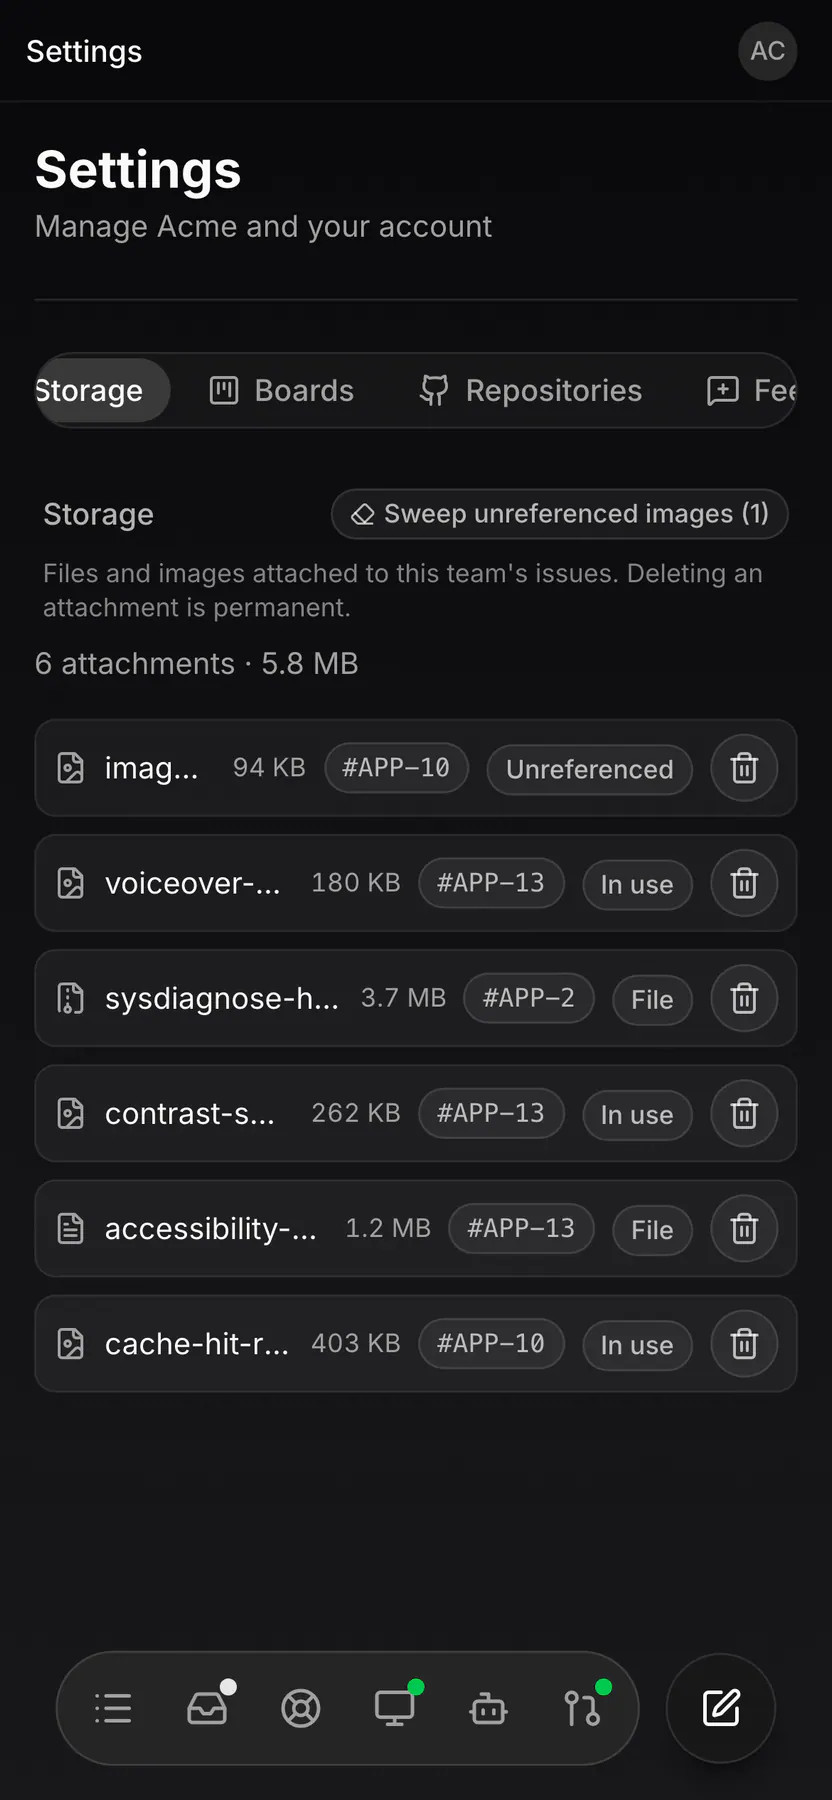
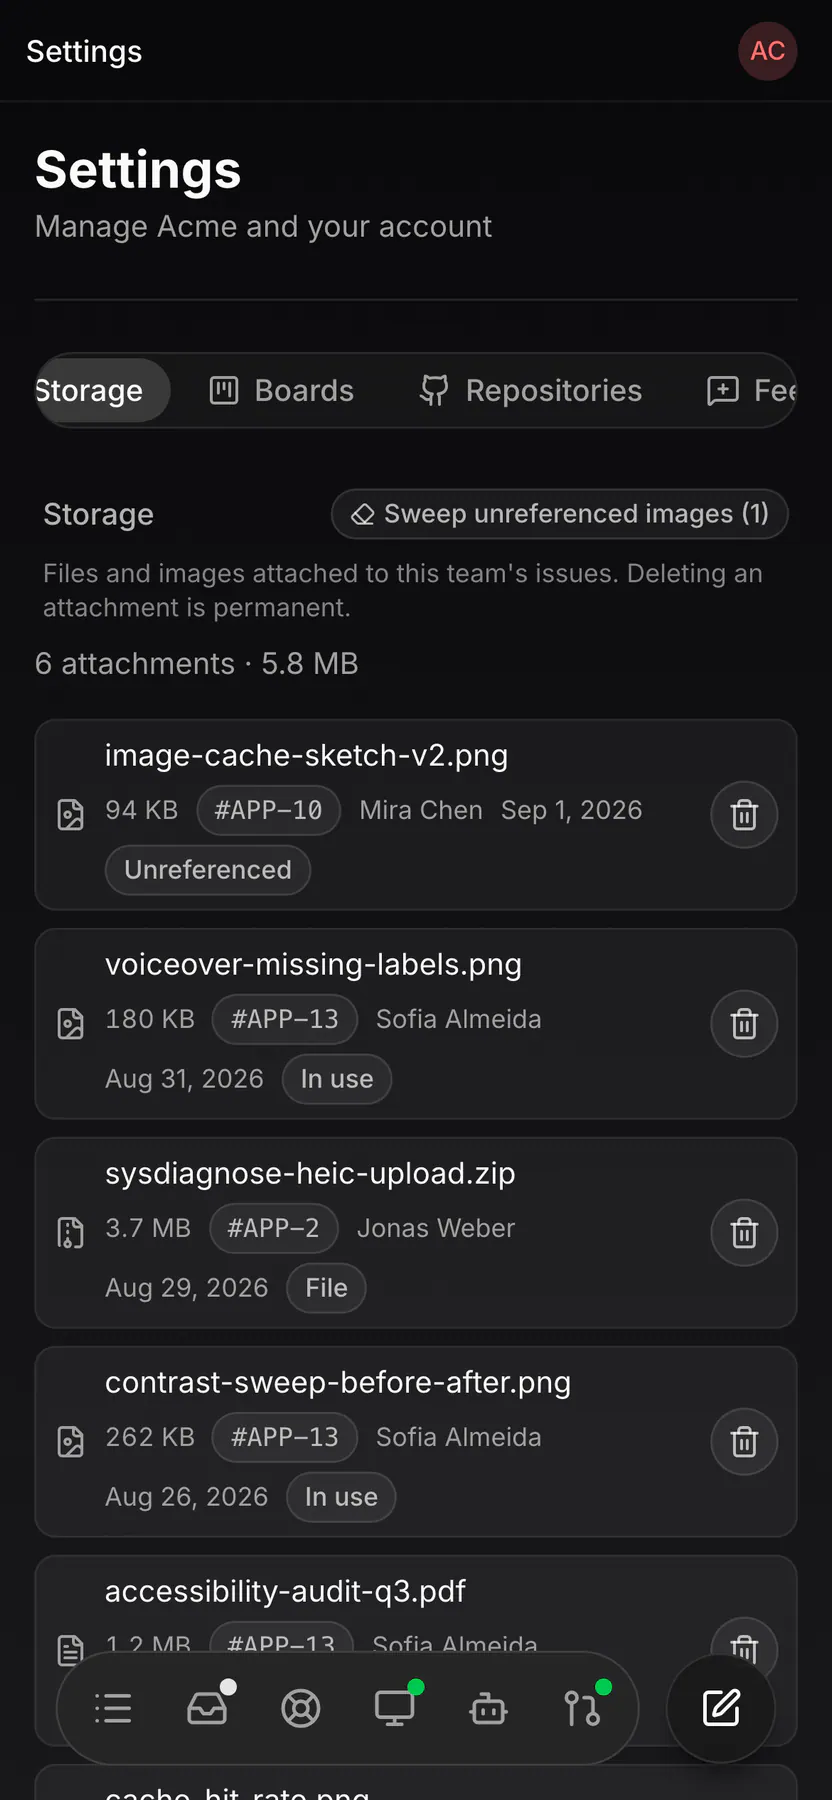
EXP-718: Settings tables: storage columns and widget-editor preview clipping
Storage (web): every cell but the filename is a definite width from a
container-query ladder on the list (size/issue/author/date/status, author
and date joining as the list widens), so the columns stop zig-zagging and
the ladder no longer overflows the ~450px settings column at the md
viewport. Narrow lists stack the cells under a full-width filename instead
of truncating it to 'imag…' beside three full-width chips.

Widget editor: from sm up the Appearance tab hands the knobs column and the
preview column their own scroll boxes, so the whole-panel preview is no
longer cut mid-field behind the dialog footer.

Refreshes settings-storage/{web,web-mobile} and settings-widget-editor/web.

diff --git a/apps/web/src/components/team/storage-section.tsx b/apps/web/src/components/team/storage-section.tsx
@@ -205,9 +205,19 @@ export function TeamStorageSection({
         ) : rows.length === 0 ? (
           <p className="text-sm text-muted-foreground">No attachments yet.</p>
         ) : (
-          // IDE-parity flex rows (EXP-316) — the old fixed table overflowed
-          // the settings column and clipped the status + delete controls.
-          <ul className="flex flex-col gap-2">
+          // IDE-parity rows (EXP-316) — the old fixed table overflowed the
+          // settings column and clipped the status + delete controls.
+          // EXP-718: in a wide enough list every cell but the filename is a
+          // definite width (the desktop's STORAGE_COL_* ladder), so size/
+          // issue/author/date/status stack in straight columns instead of
+          // zig-zagging around each row's own content; author and date join
+          // as the list widens. In a narrow one the same cells STACK under a
+          // full-width filename, so a phone never truncates the name to
+          // "imag…" while three trailing chips keep their full width. The
+          // thresholds are CONTAINER queries on the list: the settings column
+          // is ~450px at the `md` viewport (sidebar), so viewport breakpoints
+          // overflowed the ladder exactly where the tab strip turns into it.
+          <ul className="@container flex flex-col gap-2">
             {rows.map((row) => {
               const Icon = getAttachmentIcon(row.contentType)
               const issue = issuesById.get(row.issueId)
@@ -226,56 +236,66 @@ export function TeamStorageSection({
                 >
                   <li>
                     <Icon className="size-4 shrink-0 text-muted-foreground" />
-                    {row.isImage ? (
-                      <button
-                        type="button"
-                        className="min-w-0 flex-1 cursor-pointer truncate text-left text-sm hover:underline"
-                        title={`Preview ${row.filename}`}
-                        onClick={() => setPreviewRow(row)}
-                      >
-                        {row.filename}
-                      </button>
-                    ) : (
-                      <span
-                        className="min-w-0 flex-1 truncate text-sm"
-                        title={row.filename}
-                      >
-                        {row.filename}
-                      </span>
-                    )}
-                    <span className="shrink-0 text-xs text-muted-foreground tabular-nums">
-                      {formatAttachmentSize(row.sizeBytes)}
-                    </span>
-                    {issue && boardSlug && (
-                      <Pill mode="action" asChild className="font-mono">
-                        <Link
-                          to="/t/$teamSlug/boards/$boardSlug/issues/$issueIdentifier"
-                          params={{
-                            teamSlug,
-                            boardSlug,
-                            issueIdentifier: issue.identifier,
-                          }}
-                          title={issue.title}
+                    {/* Stacked when narrow; `@lg:contents` flattens the stack
+                        so the cells become the row's own flex items. */}
+                    <div className="flex min-w-0 flex-1 flex-col gap-1 @lg:contents">
+                      {row.isImage ? (
+                        <button
+                          type="button"
+                          className="min-w-0 cursor-pointer truncate text-left text-sm hover:underline @lg:flex-1"
+                          title={`Preview ${row.filename}`}
+                          onClick={() => setPreviewRow(row)}
                         >
-                          #{issue.identifier}
-                        </Link>
-                      </Pill>
-                    )}
-                    <span className="hidden w-28 shrink-0 truncate text-xs text-muted-foreground sm:inline">
-                      {uploader?.name || uploader?.email || `—`}
-                    </span>
-                    <span className="hidden shrink-0 text-xs text-muted-foreground md:inline">
-                      {formatDate(row.createdAt)}
-                    </span>
-                    <span className="shrink-0">
-                      {!row.isImage ? (
-                        <Pill>File</Pill>
-                      ) : row.referenced ? (
-                        <Pill>In use</Pill>
+                          {row.filename}
+                        </button>
                       ) : (
-                        <Pill>Unreferenced</Pill>
+                        <span
+                          className="min-w-0 truncate text-sm @lg:flex-1"
+                          title={row.filename}
+                        >
+                          {row.filename}
+                        </span>
                       )}
-                    </span>
+                      <div className="flex min-w-0 flex-wrap items-center gap-x-2 gap-y-1 text-xs text-muted-foreground @lg:contents">
+                        <span className="shrink-0 tabular-nums @lg:w-20">
+                          {formatAttachmentSize(row.sizeBytes)}
+                        </span>
+                        <span className="flex shrink-0 @lg:w-24">
+                          {issue && boardSlug ? (
+                            <Pill mode="action" asChild className="font-mono">
+                              <Link
+                                to="/t/$teamSlug/boards/$boardSlug/issues/$issueIdentifier"
+                                params={{
+                                  teamSlug,
+                                  boardSlug,
+                                  issueIdentifier: issue.identifier,
+                                }}
+                                title={issue.title}
+                              >
+                                #{issue.identifier}
+                              </Link>
+                            </Pill>
+                          ) : (
+                            <span className="@max-lg:hidden">—</span>
+                          )}
+                        </span>
+                        <span className="min-w-0 truncate @lg:hidden @lg:w-28 @2xl:inline">
+                          {uploader?.name || uploader?.email || `—`}
+                        </span>
+                        <span className="shrink-0 whitespace-nowrap @lg:hidden @lg:w-24 @3xl:inline">
+                          {formatDate(row.createdAt)}
+                        </span>
+                        <span className="flex shrink-0 @lg:w-26">
+                          {!row.isImage ? (
+                            <Pill>File</Pill>
+                          ) : row.referenced ? (
+                            <Pill>In use</Pill>
+                          ) : (
+                            <Pill>Unreferenced</Pill>
+                          )}
+                        </span>
+                      </div>
+                    </div>
                     <Button
                       variant="glass"
                       size="icon-sm"

diff --git a/apps/web/src/components/team/widget-config-dialog.tsx b/apps/web/src/components/team/widget-config-dialog.tsx
@@ -444,8 +444,14 @@ export function WidgetConfigDialog({
             snippet is public; restrict it to your domains.
           </DialogDescription>
         </DialogHeader>
-        <DialogBody>
-          <Tabs defaultValue="general">
+        {/* EXP-718: from `sm` up the body is a column so the Appearance tab
+            can hand the two panes their OWN scroll — the whole-panel preview
+            is taller than the height-capped dialog, and letting the body
+            scroll it cut the pane mid-field behind the footer. General and
+            Form keep scrolling the body (their content overflows the
+            bounded tabs box); the mobile sheet stacks and scrolls as before. */}
+        <DialogBody className="sm:flex sm:flex-col">
+          <Tabs defaultValue="general" className="sm:min-h-0 sm:flex-1">
             <TabsList className="w-full sm:w-auto">
               <TabsTrigger value="general">General</TabsTrigger>
               <TabsTrigger value="form">Form</TabsTrigger>
@@ -712,9 +718,14 @@ export function WidgetConfigDialog({
               )}
             </TabsContent>
 
-            <TabsContent value="appearance" className="mt-2">
-              <div className="grid gap-4 sm:grid-cols-2 sm:gap-x-6">
-                <div className="space-y-4">
+            <TabsContent
+              value="appearance"
+              className="mt-2 sm:flex sm:min-h-0 sm:flex-col"
+            >
+              <div className="grid gap-4 sm:min-h-0 sm:flex-1 sm:grid-cols-2 sm:grid-rows-[minmax(0,1fr)] sm:gap-x-6">
+                {/* The knobs column scrolls on its own; the 4px inset keeps
+                    focus rings inside the scroll box. */}
+                <div className="space-y-4 sm:-m-1 sm:min-h-0 sm:overflow-y-auto sm:p-1">
                   <div className="space-y-2">
                     <Label>Theme</Label>
                     <Select
@@ -858,7 +869,7 @@ export function WidgetConfigDialog({
                     </p>
                   </div>
                 </div>
-                <div className="space-y-2">
+                <div className="space-y-2 sm:min-h-0 sm:overflow-y-auto sm:pr-1">
                   <span className="text-xs text-muted-foreground">
                     Launcher preview (
                     {launcherDevice === `desktop` ? `desktop` : `mobile`}) —
